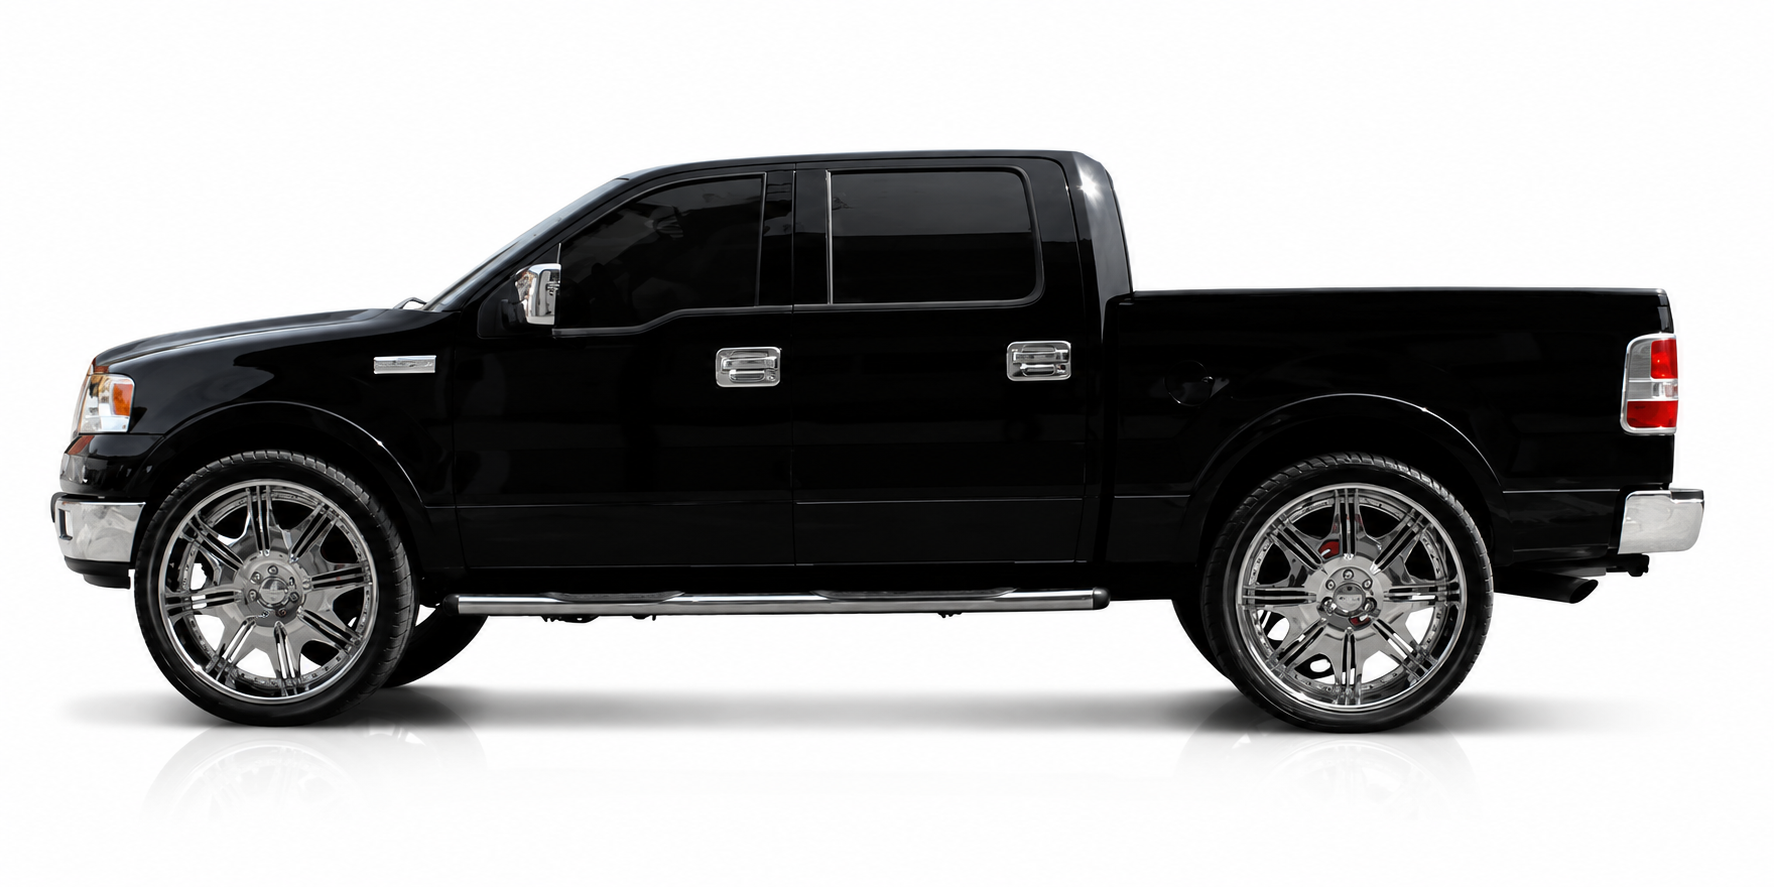
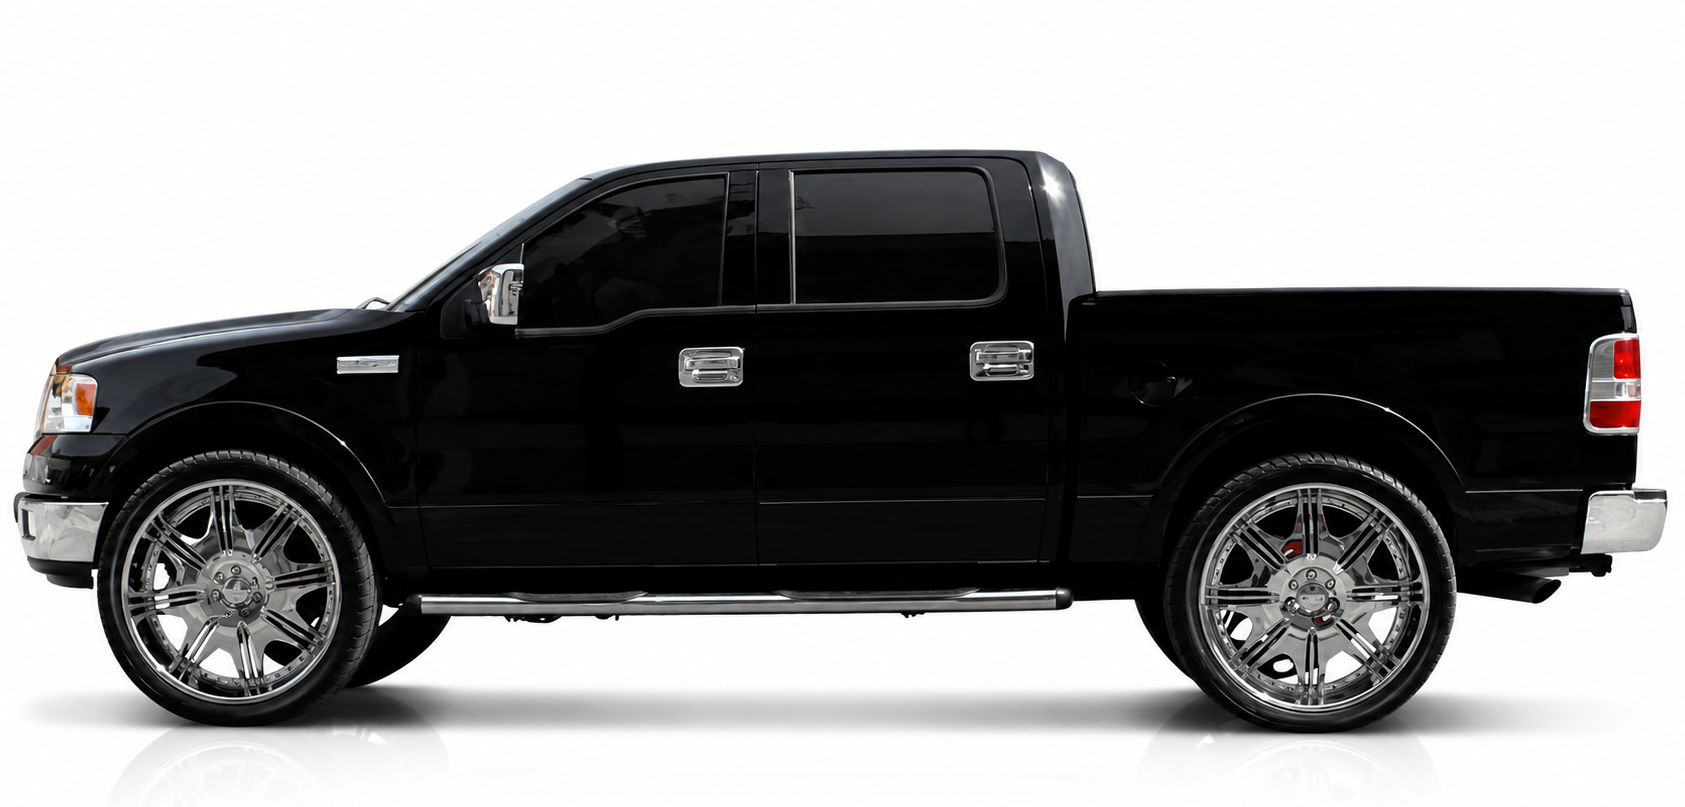
evaluation report refinement

Changed region(s): [[0.0, 0.1549, 1.0, 0.9294]]

diff --git a/docs/prime_directive/artifact_table_to_readable_document_protocol.md b/docs/prime_directive/artifact_table_to_readable_document_protocol.md
@@ -223,6 +223,42 @@ It should record at least:
 }
 ```
 
+When possible, `readout_source.json` should also record expected-file policy so
+the human readout can distinguish real missing evidence from files that are not
+applicable to this run mode:
+
+```json
+{
+  "expected_files": {
+    "required": ["evaluation_budget_lock.json", "evaluation_run_index.csv"],
+    "expected_absent_is_gap": [
+      "evaluation_manifest.json",
+      "evaluation_arm_manifest.json"
+    ],
+    "conditional": {
+      "calibration": [
+        "calibration_summary.json",
+        "calibration_run_index.csv",
+        "calibration_recommendation.md"
+      ]
+    },
+    "not_applicable": []
+  }
+}
+```
+
+If the source binding lacks expected-file policy, do not flatten all absent
+files into "missing evidence." Use the evaluation design docs, artifact
+contract, run mode, and available manifests to classify each absent file as:
+
+```text
+present
+expected_missing_gap
+conditional_absent
+not_applicable
+unknown_expectation
+```
+
 The source artifact root may live in `/private/tmp`, another local artifact
 directory, or a durable artifact store. That path is evidence metadata. It is
 not the protocol invocation target.
@@ -273,9 +309,16 @@ present:
 If the artifact set is large, inspect representative per-run files for every
 arm class and every anomalous condition before writing the final readout.
 
-If a required source file listed in `readout_source.json` is missing, do not
-silently reuse an older table. Mark the source as missing and apply the relevant
-all-cases rule.
+If a required source file listed in `readout_source.json` is absent, do not
+silently reuse an older table. Classify it as `expected_missing_gap` and apply
+the relevant all-cases rule.
+
+If a source file is absent but not listed as required, classify expectation
+before writing the report. For example, calibration files may be absent because
+the source artifact root came from a manually locked serious run rather than a
+calibration path. In that case, call them `conditional_absent` or
+`not_applicable`; do not call them missing evidence unless the source binding,
+blueprint, or run mode says they were expected for this artifact set.
 
 ### Output Contract
 
@@ -305,6 +348,45 @@ If a prior version of this protocol wrote artifact-local docs under
 `<evaluation-root>/docs/`, treat those files as non-authoritative temporary
 readouts unless the Project Owner explicitly asks to preserve or migrate them.
 
+### README Turn Surface
+
+Every generated `README.md` must include a place for human/consultant turns
+when clarification is needed. This is part of the readout surface, not a
+separate design document.
+
+Use these headings unless the Project Owner gives different labels:
+
+```markdown
+## Clarifying Questions And Turns
+
+### Project Owner / Evaluator Turn
+
+<!-- Record only explicit Project Owner or evaluator text here. Do not invent,
+     smooth, or complete this side of the exchange. Leave blank if unanswered. -->
+
+### Embedded Engineering Consultant / Codex Turn
+
+<!-- Record Codex's clarifying question, interpretation check, or response
+     here. Keep it tied to the artifact evidence and claim boundary. -->
+```
+
+Use this section for:
+
+- unresolved source-binding questions;
+- unclear claim boundaries;
+- ambiguous zero/null/failure interpretation;
+- missing baseline decisions;
+- PO/evaluator corrections to the readout;
+- Codex replies that explain how the report was changed or why a claim was
+  blocked.
+
+Do not use this section to narrate normal findings that already belong in the
+verdict, result table, diagnostics, or evidence map.
+
+Do not put words in the Project Owner's mouth. If the Project Owner has not
+answered a question, leave the Project Owner / Evaluator turn blank or mark it
+`Pending`.
+
 ### Completion Report
 
 After executing this surface, report:
@@ -313,7 +395,7 @@ After executing this surface, report:
 - the resolved source artifact root;
 - the resolved source evaluation root;
 - the files written;
-- any missing artifacts;
+- any absent artifacts, classified by expectation status;
 - any stopped claim decisions;
 - validation performed, if any.
 
@@ -544,6 +626,51 @@ End with an evidence map that tells the reader where to inspect:
 
 The evidence map must say what each file is for.
 
+### 9.1 Provenance Status
+
+If any expected or commonly inspected files are absent, write a provenance
+status section instead of a generic "missing evidence" section.
+
+The provenance status must classify each absent file:
+
+| Classification | Meaning |
+| --- | --- |
+| `expected_missing_gap` | The file is expected by the artifact contract for this run/evaluation and is absent. |
+| `conditional_absent` | The file is expected only under a condition, such as calibration, and that condition is not established for this artifact set. |
+| `not_applicable` | The file does not apply to this run mode or claim boundary. |
+| `unknown_expectation` | The consultant cannot determine whether the file was expected. |
+
+Do not use "missing" alone for files that may be conditional or not applicable.
+Say what the expectation source is: source binding, blueprint, artifact
+contract, CLI/run mode, or explicit Project Owner instruction.
+
+For the counterpoint first serious learning readout, this means:
+
+- `evaluation_manifest.json` and `evaluation_arm_manifest.json` are expected by
+  the serious evaluation artifact contract; if absent, classify them as
+  `expected_missing_gap`.
+- `calibration_summary.json`, `calibration_run_index.csv`, and
+  `calibration_recommendation.md` are calibration-path files; if the source
+  artifact root is a manually locked serious run without calibration, classify
+  them as `conditional_absent` or `not_applicable`, not as missing evidence.
+
+### 10. Clarifying Questions And Turns
+
+In `README.md`, include the turn surface defined above. The section may be
+empty, but it must exist so the Project Owner, evaluator, and Codex have a
+stable place to resolve report questions without scattering corrections across
+the conversation.
+
+If the readout has no open ambiguity, write:
+
+```text
+No open clarifying questions recorded for this readout.
+```
+
+If there is an open ambiguity, write the Codex turn as a concrete question or
+interpretation check, and leave the Project Owner / Evaluator turn pending until
+the human answers.
+
 ## All-Cases Protocol
 
 Use this protocol whenever translating artifact tables to readable documents.
@@ -563,7 +690,8 @@ Required content:
 - source artifact root checked, if known;
 - source evaluation root checked, if known;
 - expected files;
-- missing files;
+- absent files classified as `expected_missing_gap`, `conditional_absent`,
+  `not_applicable`, or `unknown_expectation`;
 - command to generate artifacts if known.
 
 Forbidden:
@@ -700,7 +828,7 @@ Required content:
 - completed arm count;
 - missing arms;
 - failed arms;
-- missing files;
+- absent files with expectation classification;
 - whether rerun/resume is possible.
 
 Forbidden:

diff --git a/docs/evaluations/counterpoint_symbolic_v001/first_serious_learning/README.md b/docs/evaluations/counterpoint_symbolic_v001/first_serious_learning/README.md
@@ -44,10 +44,12 @@ realization surface. It does not support a positive tower-performance claim.
 
 ## Files
 
+- [readout_source.json](readout_source.json): source binding from this repo readout surface to the raw artifact tables.
 - [result_readout.md](result_readout.md): full human readout.
 - [glossary.md](glossary.md): field and arm translations.
 - [runbook.md](runbook.md): reconstructed commands and rerun notes.
 - [artifact_index.md](artifact_index.md): evidence map with file purposes.
+- [results/summary.md](results/summary.md): compact reader-facing result summary.
 - [results/human_summary.md](results/human_summary.md): short result summary.
 - [results/arm_readout_table.md](results/arm_readout_table.md): reader-facing arm table.
 - [results/diagnostic_findings.md](results/diagnostic_findings.md): behavioral failure analysis.
@@ -60,12 +62,23 @@ This readout is limited to `counterpoint_symbolic_n3_small_v001` under
 GPU, tensor-enabled, musical-quality, general superiority, or production
 performance result.
 
-## Missing Evidence
+## Provenance Status
 
-The evaluation root is missing these optional/provenance files:
+The source binding for this readout is `readout_source.json`. It identifies the
+source artifact root, source evaluation root, source tables, environment
+instance, linearization mode, and claim boundary. It does not currently encode
+the full expected-file policy for the evaluation.
+
+Relative to the first serious learning blueprint, these evaluation-level
+manifest files are expected but absent from the source evaluation root:
 
 - `evaluation_manifest.json`
 - `evaluation_arm_manifest.json`
+
+These calibration files are also absent, but they should be read differently:
+they are expected for the calibration path, not necessarily for a manually
+locked serious run unless the locked run was supposed to be calibration-derived:
+
 - `calibration_summary.json`
 - `calibration_run_index.csv`
 - `calibration_recommendation.md`
@@ -73,3 +86,78 @@ The evaluation root is missing these optional/provenance files:
 The aggregate, run index, budget lock, learning curves, timing summary,
 controller summary, schema diagnostic summary, and per-run diagnostic files were
 available and used for this readout.
+
+## Clarifying Questions And Turns
+
+### Project Owner / Evaluator Turn
+
+Explain why that stuff is missing.
+
+### Embedded Engineering Consultant / Codex Turn
+
+Those files are missing because this artifact root appears to represent the
+locked serious-run/summarize path, not the calibration path.
+
+In the current implementation, `run_calibration` writes:
+
+- `evaluation_manifest.json`
+- `evaluation_arm_manifest.json`
+- `calibration_summary.json`
+- `calibration_run_index.csv`
+- `calibration_recommendation.md`
+
+The locked serious run path, `run_budget_locked_serious_learning`, writes:
+
+- `evaluation_budget_lock.json`
+- `evaluation_run_index.csv`
+
+Then `summarize` can still aggregate and document the run from the budget lock,
+run index, aggregate table, learning curves, timing summary, controller summary,
+schema diagnostics, and per-run artifacts.
+
+So this is not evidence that those files were deleted or that the run is
+uninterpretable. It is a provenance/contract gap in the current serious-run
+pipeline: the files are part of the intended evaluation-level artifact contract,
+but this particular source artifact root was produced through a path that did
+not create the calibration/setup provenance files.
+
+Claim effect: the behavioral readout remains valid as diagnostic evidence, but
+the provenance is weaker than the intended contract. A future implementation
+pass should make the serious-run path write `evaluation_manifest.json` and
+`evaluation_arm_manifest.json`, and should either require calibration artifacts
+for a calibration-derived locked run or explicitly mark calibration files as
+not applicable for a manually locked serious run.
+
+
+
+### Project Owner / Evaluator Turn
+
+Is there not a manifest where we pointed the human-readablility protocol that explains enough about the environment and evaluation that we wouldn't say things are "missing" when there was no epectation for them to be there? Or was there an expectation in this case?
+
+### Embedded Engineering Consultant / Codex Turn
+
+Yes, this was a real distinction and the report language was too blunt.
+
+There is a source-binding manifest for the human-readability protocol:
+`readout_source.json`. It tells the readout where the artifact tables live and
+records the evaluation id, environment instance, artifact schema version,
+linearization mode, and claim boundary. That is enough to know what source files
+were used. It is not currently enough to know, by itself, which absent files
+were expected versus not applicable.
+
+The expectation comes from the serious learning blueprint and the evaluation
+path contract:
+
+- `evaluation_manifest.json` and `evaluation_arm_manifest.json` are expected
+  evaluation-level artifacts for this serious evaluation. Their absence is a
+  real provenance gap.
+- `calibration_summary.json`, `calibration_run_index.csv`, and
+  `calibration_recommendation.md` are expected for the calibration path. If this
+  source artifact root was produced as a manually locked serious run without
+  calibration, those files should be described as absent/not applicable, not as
+  missing evidence.
+
+I updated the section above from `Missing Evidence` to `Provenance Status` and
+split those cases. The remaining design gap is that `readout_source.json`
+should probably grow an explicit expected-file policy so future readouts do not
+have to infer this from blueprint/code context.

diff --git a/docs/evaluations/counterpoint_symbolic_v001/first_serious_learning/result_readout.md b/docs/evaluations/counterpoint_symbolic_v001/first_serious_learning/result_readout.md
@@ -30,11 +30,13 @@ tower-performance claim.
 
 | Field | Value |
 | --- | --- |
-| Artifact root | `/private/tmp/bbb-counterpoint-serious-learning-serious-001` |
-| Evaluation root | `/private/tmp/bbb-counterpoint-serious-learning-serious-001/evaluations/counterpoint_first_serious_learning_v001` |
+| Repo readout surface | `/Users/foster/big_boy_benchmarking/docs/evaluations/counterpoint_symbolic_v001/first_serious_learning` |
+| Source artifact root | `/private/tmp/bbb-counterpoint-serious-learning-serious-001` |
+| Source evaluation root | `/private/tmp/bbb-counterpoint-serious-learning-serious-001/evaluations/counterpoint_first_serious_learning_v001` |
 | Evaluation id | `counterpoint_first_serious_learning_v001` |
 | Environment instance | `counterpoint_symbolic_n3_small_v001` |
 | Artifact schema version | `bbb.v001` |
+| Source durability | local temporary artifact path; not a durable artifact archive |
 | Linearization mode | `tensor_available_disabled` |
 | Linearization state | `PRESENT_DISABLED` |
 | Tensor execution | disabled |

diff --git a/docs/evaluations/counterpoint_symbolic_v001/first_serious_learning/runbook.md b/docs/evaluations/counterpoint_symbolic_v001/first_serious_learning/runbook.md
@@ -1,12 +1,12 @@
 # Runbook
 
-## Artifact Root
+## Source Artifact Root
 
 ```text
 /private/tmp/bbb-counterpoint-serious-learning-serious-001
 ```
 
-## Evaluation Root
+## Source Evaluation Root
 
 ```text
 /private/tmp/bbb-counterpoint-serious-learning-serious-001/evaluations/counterpoint_first_serious_learning_v001

diff --git a/docs/evaluations/counterpoint_symbolic_v001/first_serious_learning/artifact_index.md b/docs/evaluations/counterpoint_symbolic_v001/first_serious_learning/artifact_index.md
@@ -26,6 +26,9 @@ Raw evaluation root:
 The repo surface is the command target. The raw artifact root is evidence
 metadata used by this readout.
 
+The raw artifact root is currently a local `/private/tmp` path. Treat it as the
+source location used for this readout, not as a durable artifact archive.
+
 ## Evaluation-Level Files
 
 | File | Purpose | Status |